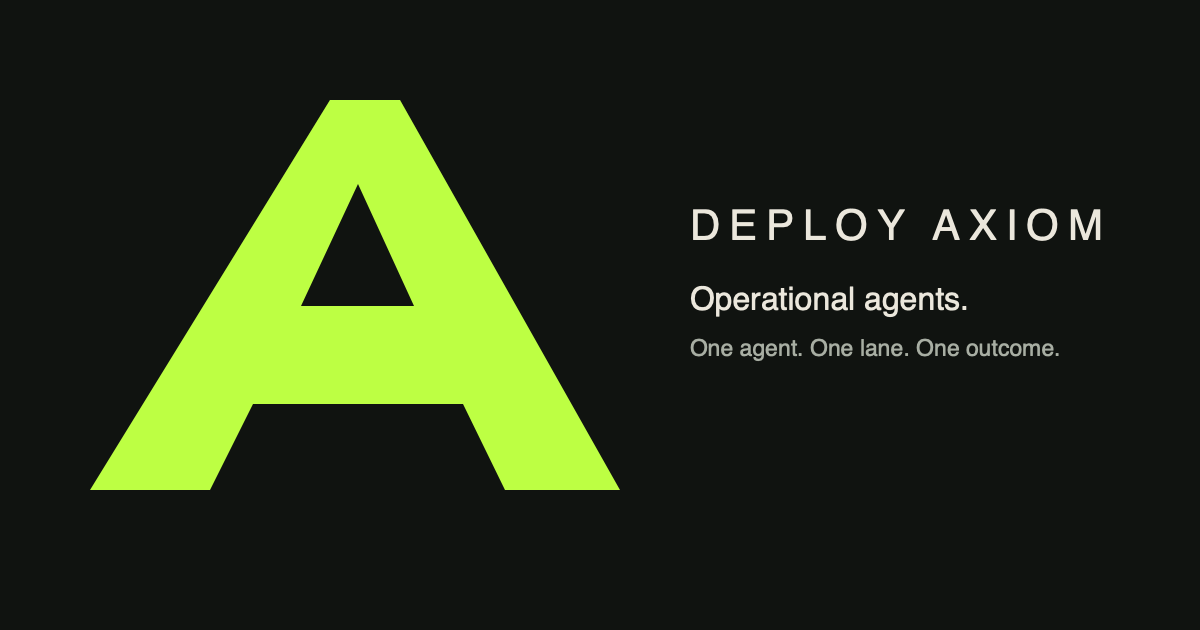
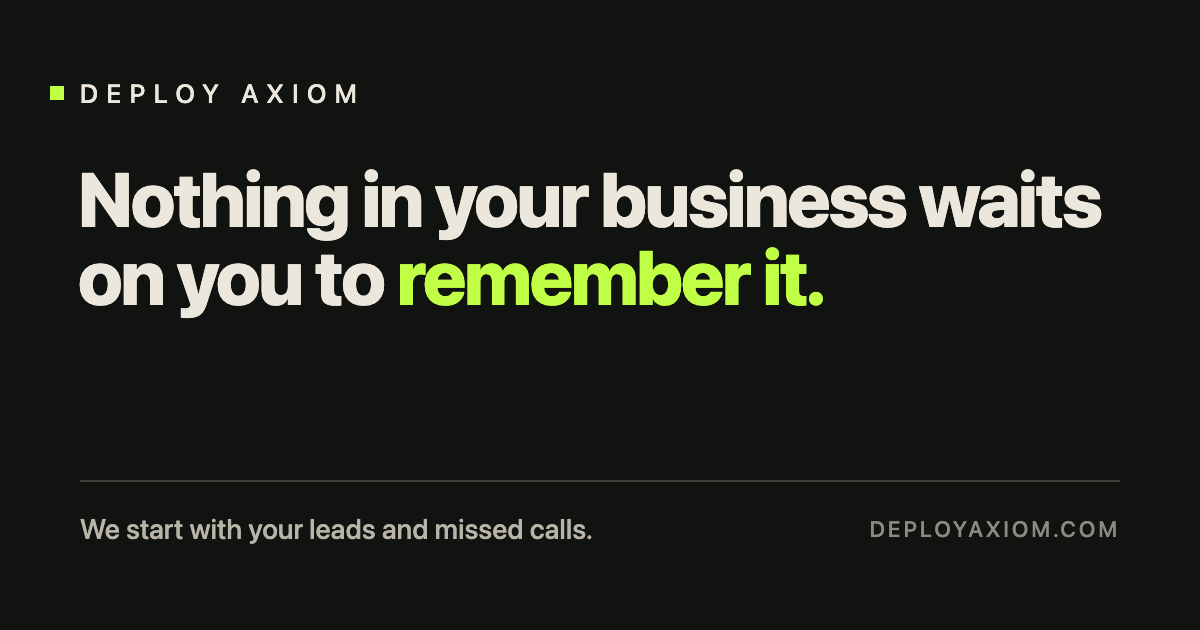
copy: lock opening line 'Nothing in your business waits on you to remember it.'

diff --git a/index.html b/index.html
@@ -3,22 +3,22 @@
 <head>
   <meta charset="utf-8">
   <meta name="viewport" content="width=device-width, initial-scale=1">
-  <meta name="description" content="Deploy Axiom deploys bounded operational agents: one agent, one operating lane, one measurable outcome.">
+  <meta name="description" content="Nothing in your business waits on you to remember it. We start with your leads and missed calls. Baton Rouge.">
   <link rel="canonical" href="https://deployaxiom.com/">
   <meta property="og:type" content="website">
   <meta property="og:url" content="https://deployaxiom.com/">
-  <meta property="og:title" content="Deploy Axiom — Operational agents">
-  <meta property="og:description" content="One agent. One operating lane. One measurable outcome.">
+  <meta property="og:title" content="Deploy Axiom — Nothing in your business waits on you to remember it.">
+  <meta property="og:description" content="We start with your leads and missed calls: every one gets a reply within minutes, even while you're on a job.">
   <meta property="og:image" content="https://deployaxiom.com/assets/axiom-og.png">
   <meta property="og:image:alt" content="Deploy Axiom operational agents">
   <meta name="theme-color" content="#ebe7dc">
   <meta name="twitter:card" content="summary_large_image">
-  <meta name="twitter:title" content="Deploy Axiom — Operational agents">
-  <meta name="twitter:description" content="One agent. One operating lane. One measurable outcome.">
+  <meta name="twitter:title" content="Deploy Axiom — Nothing in your business waits on you to remember it.">
+  <meta name="twitter:description" content="We start with your leads and missed calls: every one gets a reply within minutes, even while you're on a job.">
   <meta name="twitter:image" content="https://deployaxiom.com/assets/axiom-og.png">
   <meta name="twitter:image:alt" content="Deploy Axiom operational agents">
   <link rel="icon" href="/assets/favicon.svg" type="image/svg+xml">
-  <title>Deploy Axiom — Operational agents</title>
+  <title>Deploy Axiom — Nothing in your business waits on you to remember it.</title>
   <link rel="stylesheet" href="/assets/site.css">
 </head>
 <body>
@@ -26,7 +26,7 @@
   <div class="shell">
     <header><a class="brand" href="/" aria-label="Deploy Axiom home">DEPLOY AXIOM</a><nav class="nav" aria-label="Primary"><a href="#model">Model</a><a href="#boundaries">Boundaries</a><a href="#lanes">Lanes</a></nav><a class="cta" href="https://ig.me/m/deployaxiom">Start with OPERATE</a></header>
     <main>
-      <section class="hero" aria-labelledby="thesis"><div><h1 id="thesis">We don't sell automation. We deploy operational agents.</h1><p class="lead">One agent, one operating lane, one measurable outcome. We run the bounded work, carry the operating context forward, and stop where human judgment belongs.</p><p>Instagram DM is the current contact lane.</p><div class="actions"><a class="cta" href="https://ig.me/m/deployaxiom">Start with OPERATE</a><a class="cta cta--quiet" href="#model">See the model</a></div></div><aside class="hero-note"><strong>Operating premise</strong><br>Useful work is not a chain of disconnected tool calls. It is a lane with a trigger, a record, a boundary, and a responsible human.</aside></section>
+      <section class="hero" aria-labelledby="thesis"><div><h1 id="thesis">Nothing in your business waits on you to remember it.</h1><p class="lead">We start with your leads and missed calls: every one gets a reply within minutes, even while you're on a job. Then we take the next thing you keep having to remember. One job at a time, handled every day, and you approve anything that commits your business.</p><p>Baton Rouge. Instagram DM is the current contact lane.</p><div class="actions"><a class="cta" href="https://ig.me/m/deployaxiom">Start with OPERATE</a><a class="cta cta--quiet" href="#model">See how it works</a></div></div><aside class="hero-note"><strong>How it starts</strong><br>We pick the one job your business keeps dropping. We handle it every day. You see the result as one number.</aside></section>
       <section class="section" id="model"><div class="section-heading"><h2>Continuity is usually the failure.</h2><p>Work begins in one inbox, moves through another tool, then disappears in a handoff. The missing piece is not a vague automation layer. It is an operator that can retain the lane's relevant context, prepare the next state, and leave judgment visible to the person who owns it.</p></div><p class="eyebrow">SIMULATED LANE · REAL OPERATING MODEL</p><div class="states" aria-label="Simulated operating lane states"><div class="state"><b>Observe</b><span>Read the trigger and the permitted record.</span></div><div class="state"><b>Assemble</b><span>Build the working context from known evidence.</span></div><div class="state"><b>Draft</b><span>Prepare the next action or handoff.</span></div><div class="state hold"><b>Hold</b><span>At Hold, human approval decides what may proceed.</span></div><div class="state"><b>Record</b><span>Write the observable disposition for the next pass.</span></div></div></section>
       <section class="section"><div class="section-heading"><h2>A deployment is a unit of responsibility.</h2><p>It is not a feature bundle. Before an agent operates, its job and limits are explicit.</p></div><div class="contract"><article><h3>Operating contract</h3><p>One defined trigger, scope, terminal state, and accountable owner.</p></article><article><h3>Context</h3><p>The minimum durable record needed to continue the lane without re-explaining it.</p></article><article><h3>Permissions</h3><p>Specific authority to read, classify, draft, queue, or separately execute.</p></article><article><h3>Evidence</h3><p>A visible disposition that shows where the work went and why.</p></article></div></section>
       <section class="section" id="lanes"><div class="section-heading"><h2>Example lanes, not claims.</h2><p>These are job-shaped examples of the model. They are not client deployments or claims about live operating lanes.</p></div><div class="lanes"><article class="lane"><h3>Lead disposition</h3><dl><dt>Trigger</dt><dd>A new inquiry arrives.</dd><dt>Agent-owned work</dt><dd>Assemble the stated need, classify the inquiry, and draft a disposition.</dd><dt>Human-owned judgment</dt><dd>Approve qualification, exception handling, or any outbound commitment.</dd><dt>Observable disposition</dt><dd>Qualified, declined, held, or assigned with a next owner.</dd></dl></article><article class="lane"><h3>Check-in triage</h3><dl><dt>Trigger</dt><dd>A scheduled check-in is received.</dd><dt>Agent-owned work</dt><dd>Assemble prior context and prepare a bounded summary.</dd><dt>Human-owned judgment</dt><dd>Interpret the check-in and decide the response.</dd><dt>Observable disposition</dt><dd>Reviewed, held for follow-up, or routed to a named owner.</dd></dl></article><article class="lane"><h3>Content production handoff</h3><dl><dt>Trigger</dt><dd>A source clip or approved brief enters production.</dd><dt>Agent-owned work</dt><dd>Prepare the handoff record and identify missing inputs.</dd><dt>Human-owned judgment</dt><dd>Approve the creative direction and final release.</dd><dt>Observable disposition</dt><dd>Ready, blocked, revised, or released to the next owner.</dd></dl></article><article class="lane"><h3>Intake-to-scope</h3><dl><dt>Trigger</dt><dd>A prospective operating problem is described.</dd><dt>Agent-owned work</dt><dd>Structure the request into trigger, boundary, evidence, and outcome.</dd><dt>Human-owned judgment</dt><dd>Decide whether the work is safe and worth scoping.</dd><dt>Observable disposition</dt><dd>Scope-ready, held for evidence, or declined.</dd></dl></article></div></section>
@@ -38,7 +38,7 @@ Observable outcome:
 
 No secrets included.</pre><p>Copy this template manually, then <a href="https://ig.me/m/deployaxiom">open Instagram DM</a>.</p></div><noscript><p>The template above is available without JavaScript; copy it manually, then open Instagram DM.</p></noscript></div></section>
     </main>
-    <footer><span>Deploy Axiom / operational agents</span><span><a href="https://www.instagram.com/deployaxiom/">Instagram</a> · <a href="/archive/two-business-evaluation-2026-09/">Archived campaign</a></span></footer>
+    <footer><span>Deploy Axiom · Nothing in your business waits on you to remember it.</span><span><a href="https://www.instagram.com/deployaxiom/">Instagram</a> · <a href="/archive/two-business-evaluation-2026-09/">Archived campaign</a></span></footer>
   </div>
   <script src="/assets/site.js" defer></script>
 </body>
